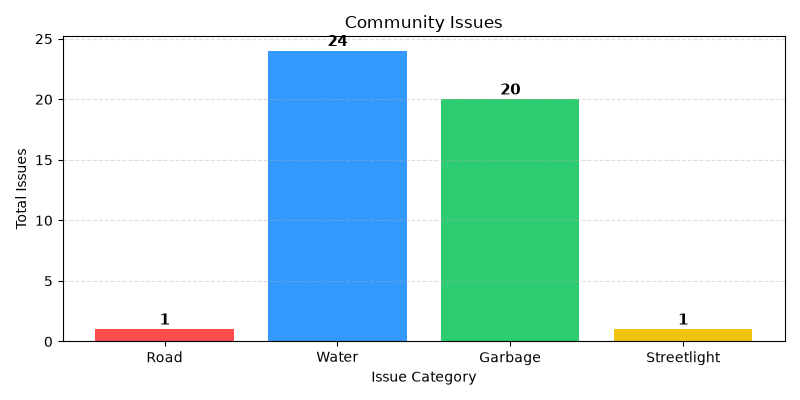
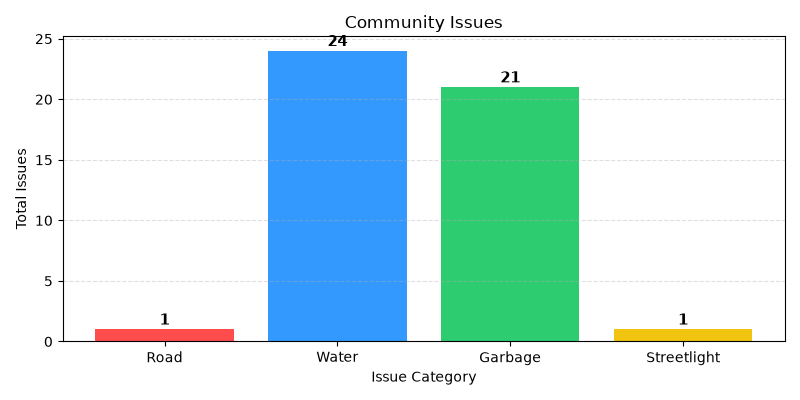
Added new features

Changed region(s): [[0.5312, 0.18, 0.75, 0.27]]

diff --git a/app.py b/app.py
@@ -11,17 +11,23 @@ import matplotlib.pyplot as plt
 app = Flask(__name__)
 app.secret_key = os.getenv("SECRET_KEY", "community_hero_secret")
 # Gemini API Key
-genai.configure(api_key=os.getenv("GEMINI_API_KEY"))
+GEMINI_API_KEY = os.getenv("GEMINI_API_KEY")
+
+if not GEMINI_API_KEY:
+    raise ValueError("GEMINI_API_KEY environment variable not found.")
+
+genai.configure(api_key=GEMINI_API_KEY)
 
 
 UPLOAD_FOLDER = "static/uploads"
 os.makedirs(UPLOAD_FOLDER, exist_ok=True)
+DB_PATH = os.getenv("DATABASE_PATH", "community.db")
+
 def get_db_connection():
-    conn = sqlite3.connect("community.db")
+    conn = sqlite3.connect(DB_PATH)
     conn.row_factory = sqlite3.Row
     return conn
-
-model = genai.GenerativeModel("gemini-2.5-flash-lite")
+model = genai.GenerativeModel("gemini-2.5-flash")
 # matplotlib chart
 
 def generate_chart():